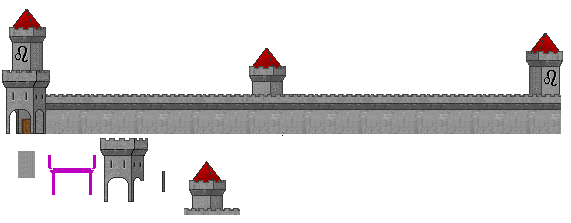
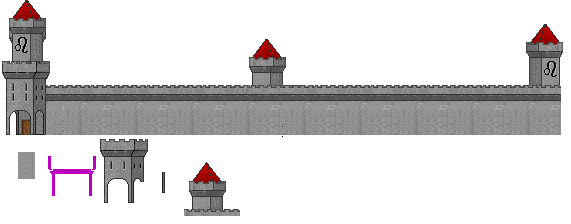
Higher city wall, updated flag positions

diff --git a/Objects.ocd/Decoration.ocd/City.ocd/Script.c b/Objects.ocd/Decoration.ocd/City.ocd/Script.c
@@ -1,9 +1,9 @@
 
 protected func Initialize()
 {
-	CreateObject(DecoFlag,-254,-122);
-	CreateObject(DecoFlag,-14,-85);
-	CreateObject(DecoFlag,+264,-100);
+	CreateObject(DecoFlag,-253,-137);
+	CreateObject(DecoFlag,-13,-100);
+	CreateObject(DecoFlag,+263,-115);
 }
 
 //////////////////////////////////////////////////////////////////////////////////////////////////////////////////

diff --git a/Objects.ocd/Decoration.ocd/City.ocd/Flag.ocd/Script.c b/Objects.ocd/Decoration.ocd/City.ocd/Flag.ocd/Script.c
@@ -14,7 +14,7 @@ private func Flying()
 	}
 }
 
-public func Construction()
+public func Initialize()
 {
 	SetAction("FlyBase");
 }
